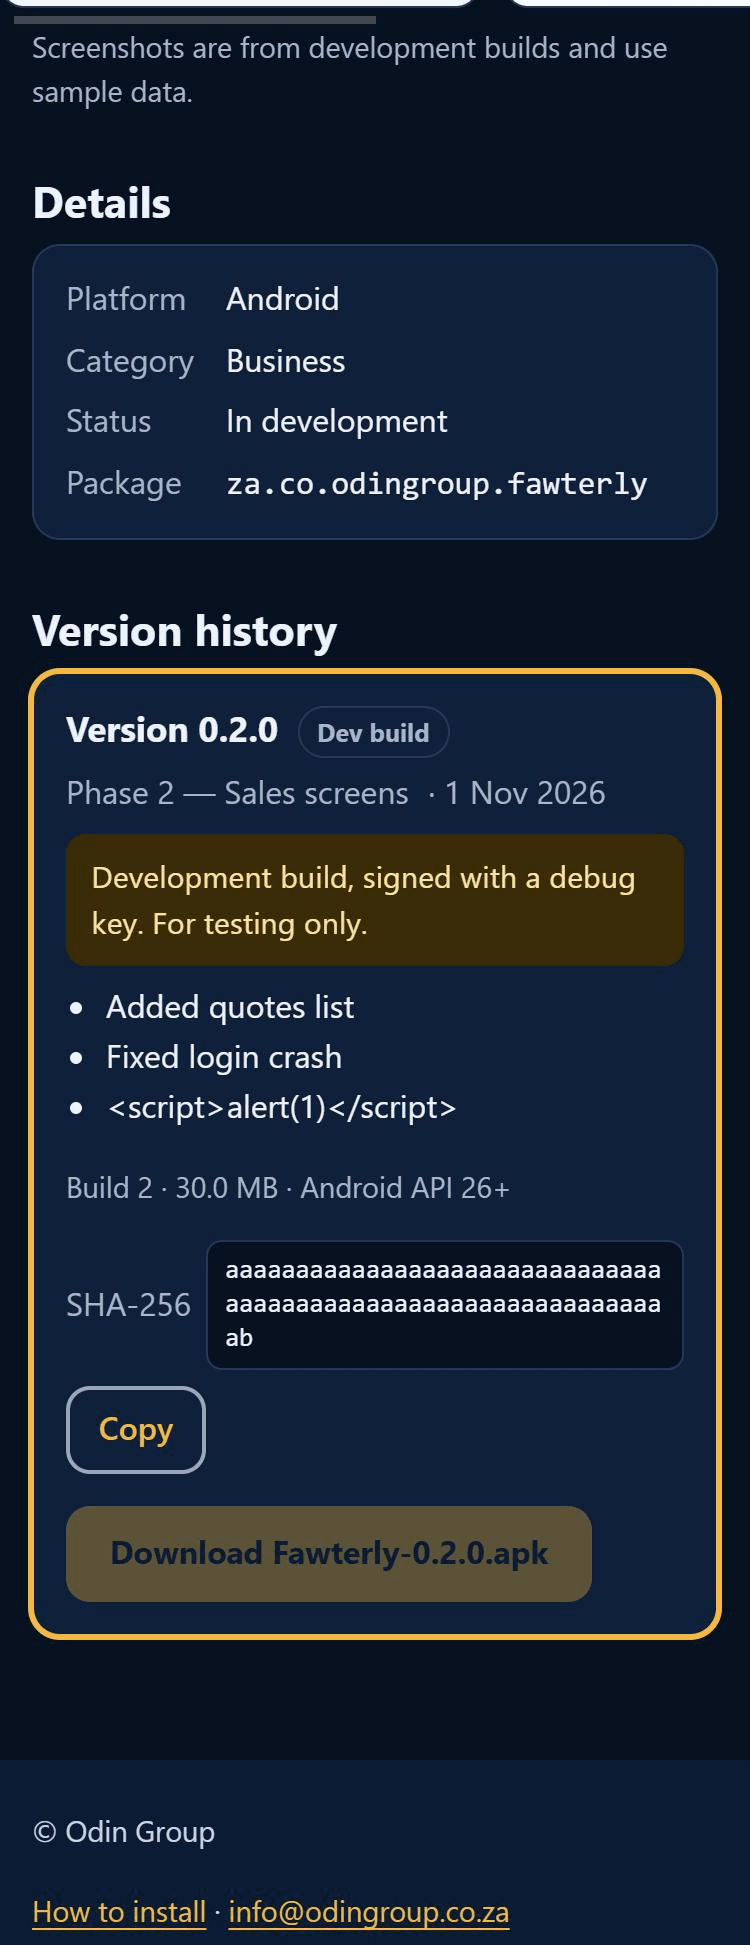
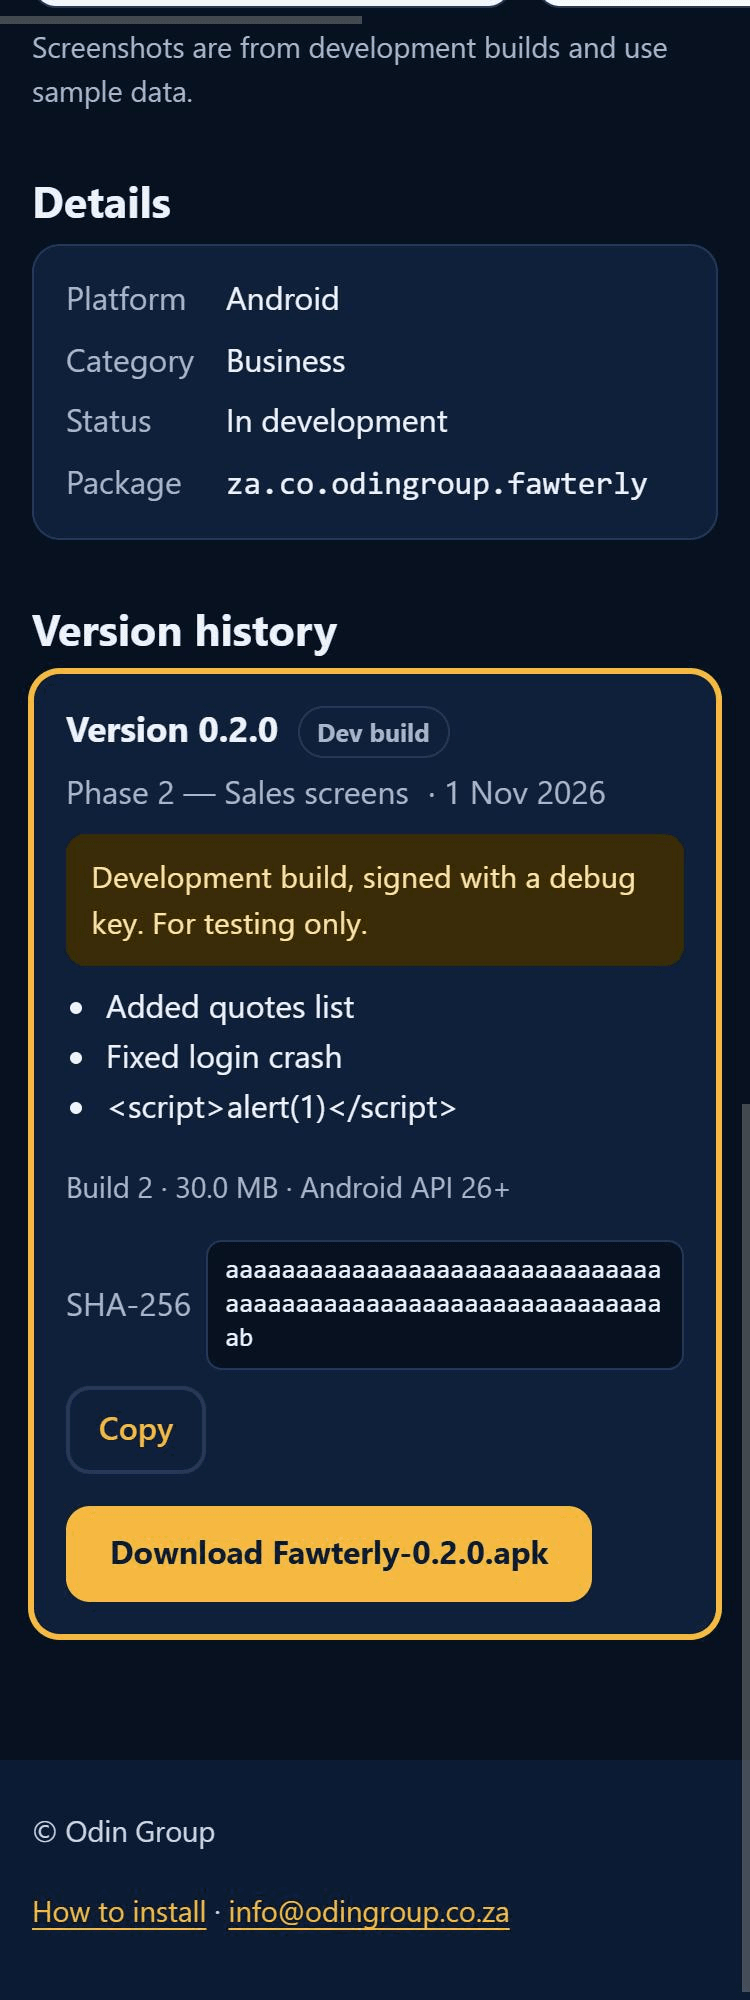
Review fixes: deploy guard, safe markdown URLs, https links in prose, apk file name pattern, ToolForge wording, still

diff --git a/docs/specs/phase-2-publish.md b/docs/specs/phase-2-publish.md
@@ -20,7 +20,7 @@ Steps, stop with a clear error at the first failure:
    `minSdk`, `targetSdk`. `application-debuggable` → channel forced to `dev`. Refuse if this `versionCode` (or
    `versionName`) is already in `releases.json`, with the message "bump the version before publishing". Refuse
    unknown slugs (list the valid ones). Changelog file must be non-empty.
-4. **Release**: `gh release create <tag> <apk renamed to <AppName>-<versionName>.apk> --repo
+4. **Release**: `gh release create <tag> <apk renamed to <AppName>-<versionName>.apk, spaces removed from AppName, e.g. WormholeRider-0.1.0.apk> --repo
    mhmdfaour/odin-group-website --title "<AppName> <versionName> (<phase>)" --notes-file <changelog>`;
    `--prerelease` unless channel is `stable`. Compute SHA-256 and size locally.
 5. **Catalogue**: prepend the entry to `catalog/apps/<slug>/releases.json`, set `app.json.status` to `beta` if it

diff --git a/docs/PLAN.md b/docs/PLAN.md
@@ -33,7 +33,7 @@ dist/                 # build output (gitignored), pushed to gh-pages by `npm ru
 
 - Static site generated by a small Node build script from `catalog/`. No runtime backend.
 - APK download URL: `https://github.com/mhmdfaour/odin-group-website/releases/download/<tag>/<file>`,
-  tag `<slug>-v<versionName>+<versionCode>`, file `<AppName>-<versionName>.apk`.
+  tag `<slug>-v<versionName>+<versionCode>`, file `<AppName>-<versionName>.apk` with spaces removed from the name (e.g. `WormholeRider-0.1.0.apk`; GitHub renames assets with spaces).
 - Machine-readable feeds: `/apps/<slug>/releases.json` (per app) and `/updates.json` (site-wide, newest 50), so the
   apps can check for updates later.
 
